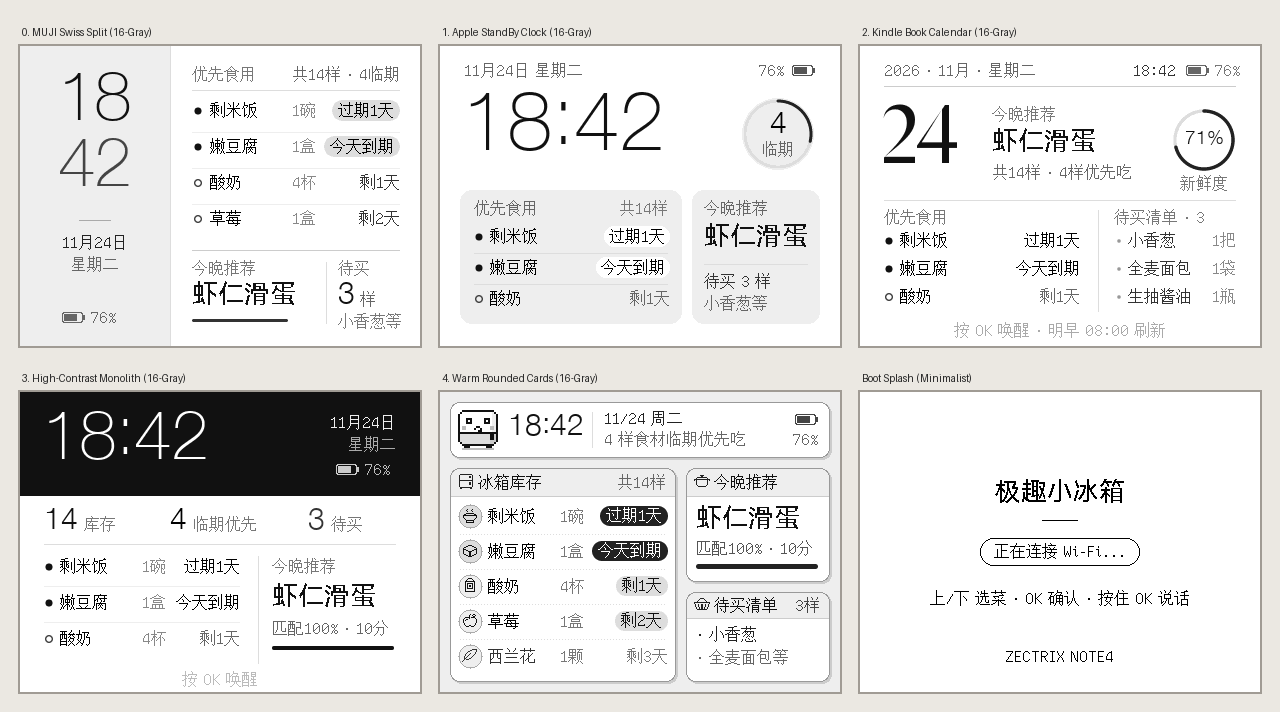
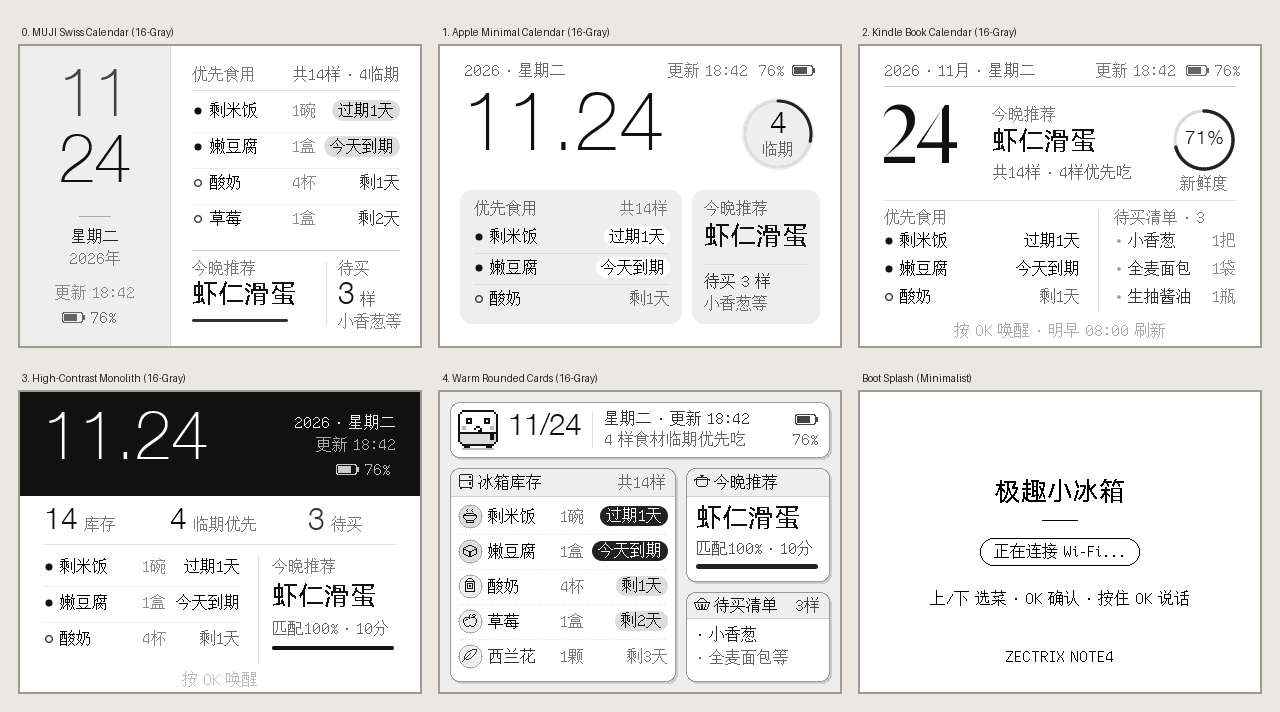
v0.0.2: 更新固件版本号、新版大日期待机封面与设置页预览图

diff --git a/README.md b/README.md
@@ -12,7 +12,7 @@
   - **极简高级风**（默认）：MUJI / Apple / Kindle 视觉体系，去杂纹、大留白、细线下划线页签与纯粹瑞士网格排版，从待机到交互与弹窗零割裂。
   - **温馨圆角卡片风**：保留 13 套手绘像素食材图标与温暖手账圆角卡片手感，配套精修无割裂 16 灰阶卡片待机海报。
 - **5 套真 16 灰阶（4bpp）抗锯齿待机封面**
-  - 休眠常亮不费电，可在手机网页「设置」中随时切换：`MUJI 瑞士双栏`、`Apple 极简大时钟`、`Kindle 单向历书页`、`原研哉 黑白撞色海报`、`温馨圆角卡片看板`。
+  - 全部采用**大号抗锯齿日期主角 + 小字更新时间戳**（每天早起自动刷新一次全天不穿帮，唤醒期右上角时钟每分钟静默局刷）；可在手机网页「设置」中随时切换：`MUJI 瑞士双栏日历`、`Apple 极简大日历`、`Kindle 单向历书页`、`原研哉 黑白撞色海报`、`温馨圆角卡片看板`。
 - **库存管理 + 长按下键整页连翻**
   - 支持最多 **80 样**食材；绝不虚构保质期（未设到期天数时如实显示「今天放入 / 已放 N 天」）。
   - 左焦详情 + 右列 5 项清单，食材超过 5 样时**按住下键即可连续整页翻页**、松手即停不冲过头。
@@ -48,8 +48,8 @@
 
 | 文件名 | 烧录起始地址 | 适用场景 |
 | :--- | :---: | :--- |
-| `zectrix-fridge-v2.0.0-merged-0x0.bin` | `0x0` | **首次安装 / 全新刷入（推荐）**：单文件已合并 bootloader、分区表与主程序 |
-| `zectrix-fridge-v2.0.0-app-0x20000.bin` | `0x20000` | **老版本升级**：仅覆盖应用分区，保留你已有的冰箱库存、菜谱与 Wi-Fi 配置 |
+| `zectrix-fridge-v0.0.2-merged-0x0.bin` | `0x0` | **首次安装 / 全新刷入（推荐）**：单文件已合并 bootloader、分区表与主程序 |
+| `zectrix-fridge-v0.0.2-app-0x20000.bin` | `0x20000` | **老版本升级**：仅覆盖应用分区，保留你已有的冰箱库存、菜谱与 Wi-Fi 配置 |
 | `SHA256SUMS.txt` | — | 固件 SHA-256 校验值 |
 
 ---
@@ -73,9 +73,9 @@
    esptool.py --chip esp32s3 -p <你的串口> -b 460800 \
      --before default_reset --after hard_reset \
      write_flash --flash_mode dio --flash_size 16MB --flash_freq 80m \
-     0x0 zectrix-fridge-v2.0.0-merged-0x0.bin
+     0x0 zectrix-fridge-v0.0.2-merged-0x0.bin
    ```
-   *(若已刷过本固件 v2.x，仅升级主程序并保留库存数据，把最后一行换成 `0x20000 zectrix-fridge-v2.0.0-app-0x20000.bin` 即可。)*
+   *(若已刷过本固件 旧版本，仅升级主程序并保留库存数据，把最后一行换成 `0x20000 zectrix-fridge-v0.0.2-app-0x20000.bin` 即可。)*
 
 > **常见串口名称**：macOS 一般为 `/dev/cu.usbmodem*`，Windows 为 `COM3` / `COM4` 等，Linux 为 `/dev/ttyACM0`。
 
@@ -83,7 +83,7 @@
 
 可使用任意支持 ESP32-S3 的网页烧录器（Chrome / Edge 打开 ESP Web Tool 或乐鑫 Flash Download Tool）：
 - 芯片选择 **ESP32-S3**，Flash 模式 **DIO**，频率 **80MHz**，容量 **16MB**
-- 填入烧录地址 **`0x0`**，选择下载的 `zectrix-fridge-v2.0.0-merged-0x0.bin`，点击烧录即可。
+- 填入烧录地址 **`0x0`**，选择下载的 `zectrix-fridge-v0.0.2-merged-0x0.bin`，点击烧录即可。
 
 ---
 
